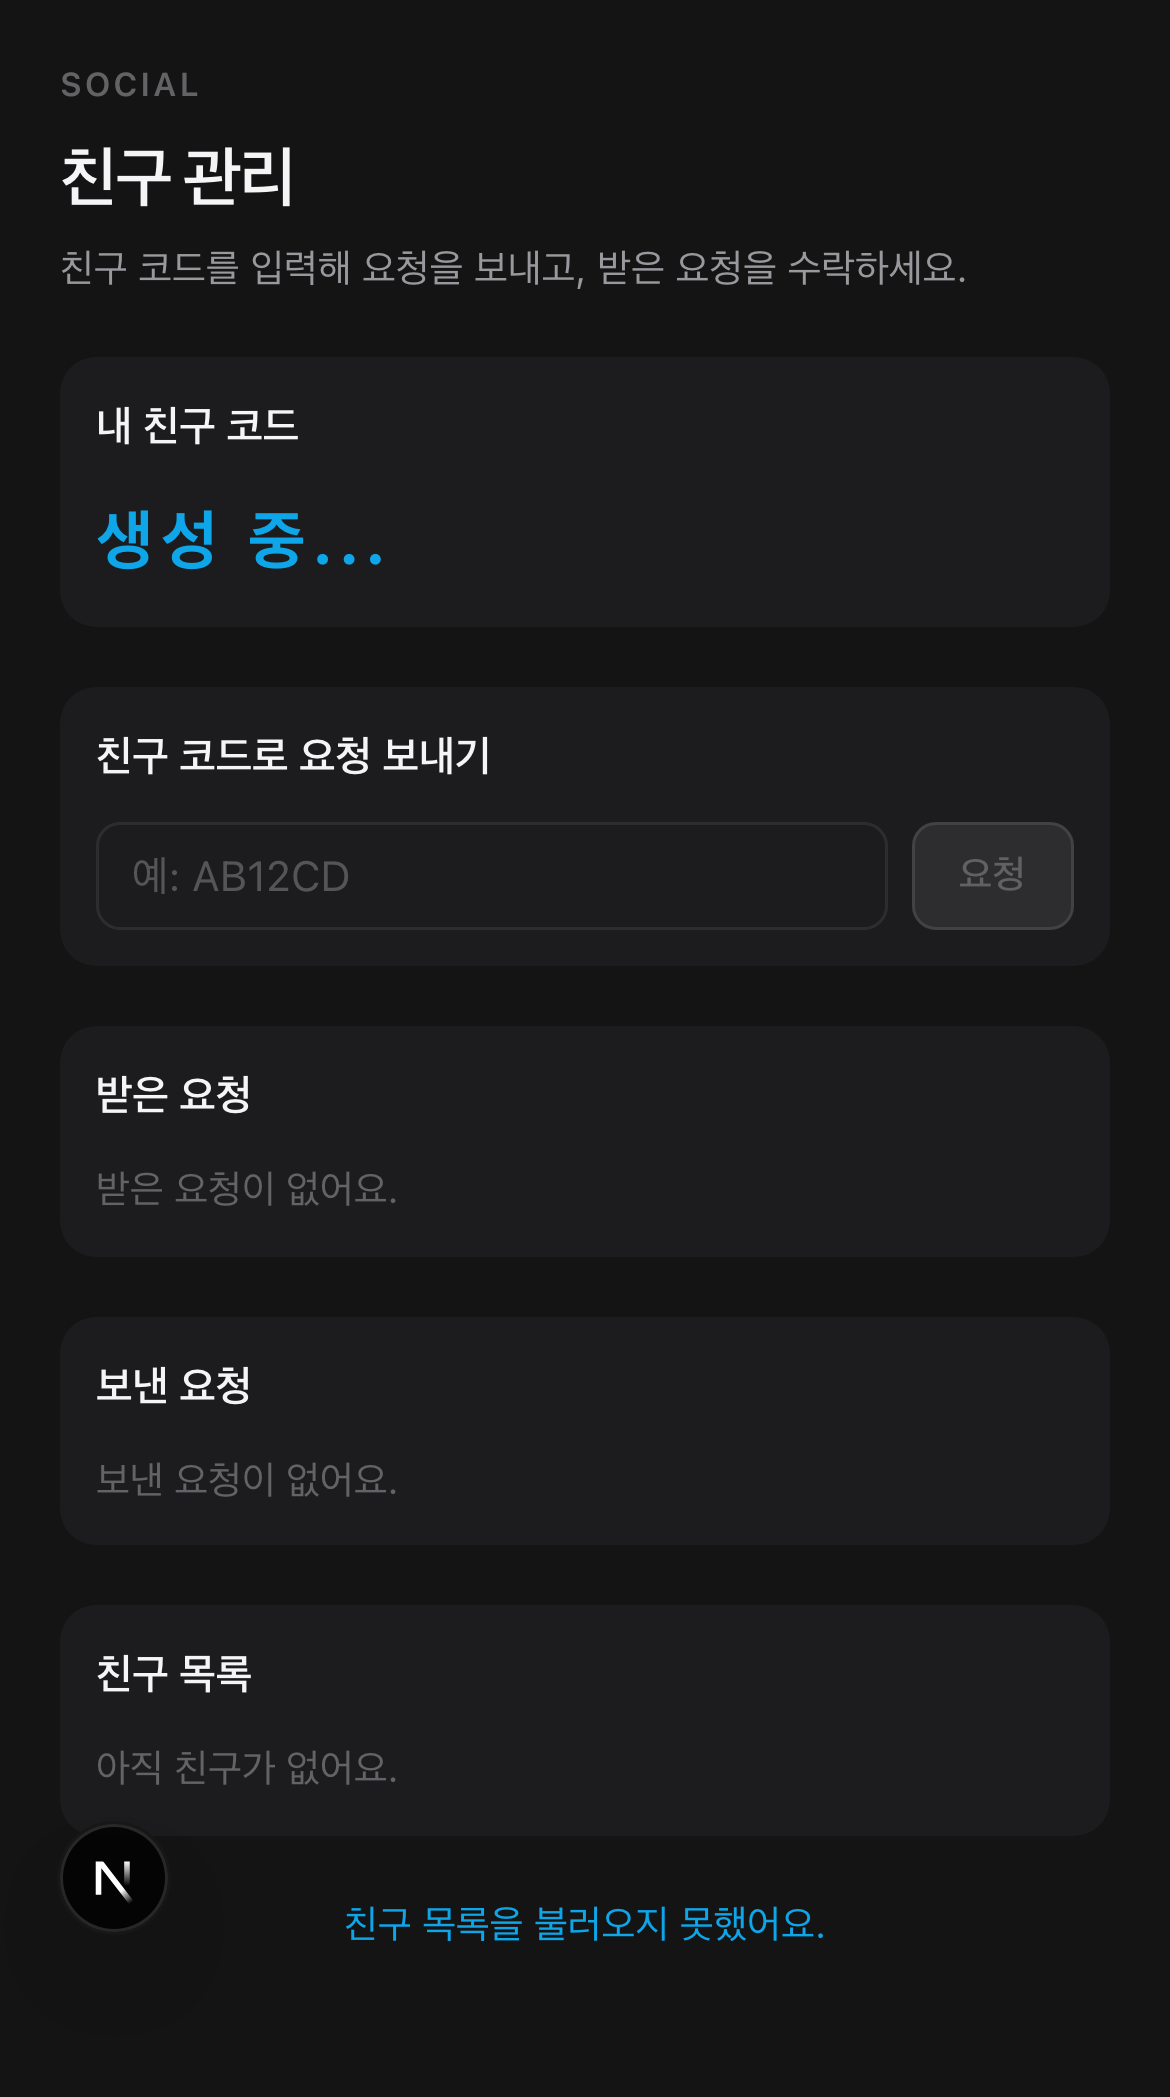
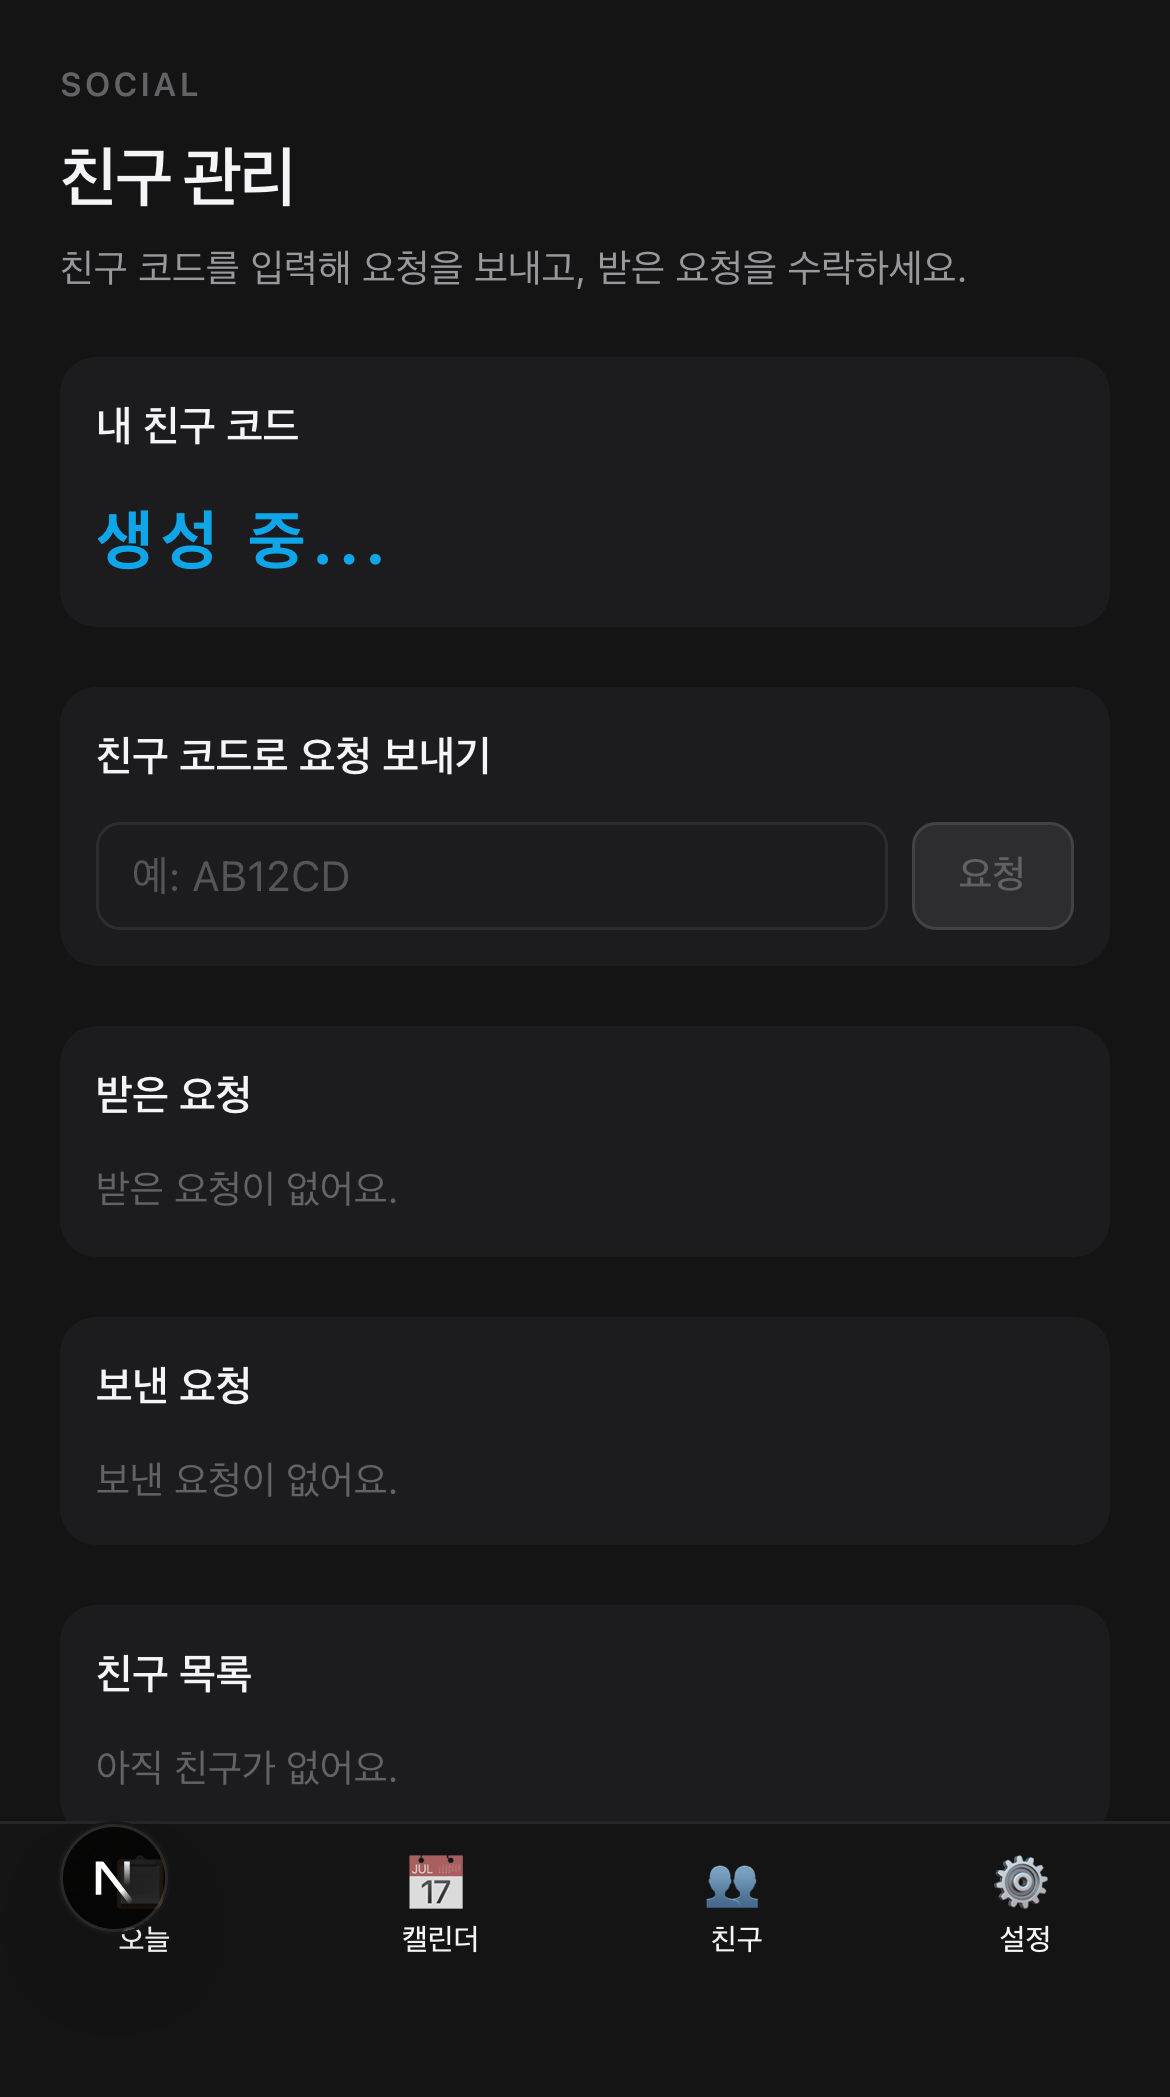
fix: UX 개선 — 하단 네비게이션, 알림 토글, 설정 간소화, 스와이프 안정화
- 하단 네비게이션 바 추가 (오늘/캘린더/친구/설정)
- 알림 켜기/끄기 → 토글 스위치로 변경
- 설정에서 운영정책/시스템안내 섹션 제거
- 스와이프 애니메이션을 인라인 style로 변경 (Tailwind override 방지)
- 테스트 86/86 통과

diff --git a/apps/web/src/app/settings/page.tsx b/apps/web/src/app/settings/page.tsx
@@ -2,7 +2,7 @@
 
 import Link from 'next/link';
 import { useState } from 'react';
-import { Button } from 'antd';
+import { Button, Switch } from 'antd';
 
 import { AuthRequired } from '@/components/auth-required';
 import { PageShell } from '@/components/ui';
@@ -32,6 +32,7 @@ export default function SettingsPage() {
     if (typeof window === 'undefined' || !('Notification' in window)) return 'unsupported';
     return Notification.permission;
   });
+  const [notificationEnabled, setNotificationEnabled] = useState(true);
 
   const requestPermission = async () => {
     if (sendNativeAction('request-notification-permission')) return;
@@ -39,6 +40,11 @@ export default function SettingsPage() {
     if (typeof window === 'undefined' || !('Notification' in window)) return;
     const result = await Notification.requestPermission();
     setPermission(result);
+  };
+
+  const handleToggle = (checked: boolean) => {
+    setNotificationEnabled(checked);
+    sendNativeAction('toggle-notification', checked);
   };
 
   return (
@@ -63,6 +69,18 @@ export default function SettingsPage() {
           {/* Notification */}
           <div className="bg-ds-surface rounded-ds-lg pad-card grid gap-ds-card-gap">
             <p className="m-0 text-[14px] font-semibold text-ds-text">알림</p>
+
+            {/* Toggle */}
+            <div className="flex justify-between items-center">
+              <span className="text-[13px] text-ds-text-muted">알림 받기</span>
+              <Switch
+                checked={notificationEnabled}
+                onChange={handleToggle}
+                size="small"
+              />
+            </div>
+
+            {/* Permission status */}
             <div className="flex justify-between items-center">
               <span className="text-[13px] text-ds-text-muted">권한 상태</span>
               <span
@@ -79,6 +97,8 @@ export default function SettingsPage() {
                 {permissionLabel(permission)}
               </span>
             </div>
+
+            {/* Actions */}
             <div className="flex gap-ds-inline flex-wrap">
               <Button
                 size="small"
@@ -89,51 +109,12 @@ export default function SettingsPage() {
               </Button>
               <Button
                 size="small"
-                onClick={() => { void sendNativeAction('toggle-notification', true); }}
-                className="!bg-ds-surface-strong !text-ds-text-muted !border-0 !text-[12px] !font-medium"
-              >
-                켜기
-              </Button>
-              <Button
-                size="small"
-                onClick={() => { void sendNativeAction('toggle-notification', false); }}
-                className="!bg-ds-surface-strong !text-ds-text-muted !border-0 !text-[12px] !font-medium"
-              >
-                끄기
-              </Button>
-              <Button
-                size="small"
                 onClick={() => { void sendNativeAction('open-settings'); }}
                 className="!bg-ds-surface-strong !text-ds-text-muted !border-0 !text-[12px] !font-medium"
               >
                 시스템 설정
               </Button>
             </div>
-          </div>
-
-          {/* Policy */}
-          <div className="bg-ds-surface rounded-ds-lg pad-card grid gap-ds-card-gap">
-            <p className="m-0 text-[14px] font-semibold text-ds-text">운영 정책</p>
-            <div className="grid gap-ds-inline">
-              {[
-                '기본 3루틴 + 커스텀 루틴 유지',
-                '루틴 인증 정책: 시간대 기반',
-                '친구 연동 권한: 방장만 루틴 편집',
-              ].map((text) => (
-                <div key={text} className="flex items-center gap-2">
-                  <span className="w-[5px] h-[5px] rounded-ds-pill bg-ds-accent shrink-0" />
-                  <span className="text-[13px] text-ds-text-muted">{text}</span>
-                </div>
-              ))}
-            </div>
-          </div>
-
-          {/* Info */}
-          <div className="bg-ds-surface rounded-ds-lg pad-card grid gap-ds-card-gap">
-            <p className="m-0 text-[14px] font-semibold text-ds-text">시스템 안내</p>
-            <p className="m-0 text-[13px] text-ds-text-faint leading-normal">
-              iOS WebView 환경에서는 시스템 설정에서 알림 권한을 최종 확인해 주세요.
-            </p>
           </div>
         </section>
       </PageShell>

diff --git a/apps/web/src/app/settings/page.test.tsx b/apps/web/src/app/settings/page.test.tsx
@@ -34,28 +34,23 @@ describe('SettingsPage', () => {
     expect(screen.getAllByText('SYSTEM').length).toBeGreaterThanOrEqual(1);
   });
 
-  it('renders notification card', () => {
+  it('renders notification card with toggle', () => {
     render(<SettingsPage />);
     expect(screen.getAllByText('알림').length).toBeGreaterThanOrEqual(1);
     expect(screen.getAllByText('권한 상태').length).toBeGreaterThanOrEqual(1);
-  });
-
-  it('renders policy card', () => {
-    render(<SettingsPage />);
-    expect(screen.getAllByText('운영 정책').length).toBeGreaterThanOrEqual(1);
-    expect(screen.getAllByText(/기본 3루틴/).length).toBeGreaterThanOrEqual(1);
-  });
-
-  it('renders system info card', () => {
-    render(<SettingsPage />);
-    expect(screen.getAllByText('시스템 안내').length).toBeGreaterThanOrEqual(1);
+    expect(screen.getAllByText('알림 받기').length).toBeGreaterThanOrEqual(1);
   });
 
   it('has notification action buttons', () => {
     render(<SettingsPage />);
     expect(screen.getAllByText('권한 요청').length).toBeGreaterThanOrEqual(1);
-    expect(screen.getAllByText('켜기').length).toBeGreaterThanOrEqual(1);
-    expect(screen.getAllByText('끄기').length).toBeGreaterThanOrEqual(1);
+    expect(screen.getAllByText('시스템 설정').length).toBeGreaterThanOrEqual(1);
+  });
+
+  it('does not render removed sections', () => {
+    render(<SettingsPage />);
+    expect(screen.queryByText('운영 정책')).toBeNull();
+    expect(screen.queryByText('시스템 안내')).toBeNull();
   });
 
   it('has back link to today', () => {

diff --git a/apps/web/src/components/bottom-nav.tsx b/apps/web/src/components/bottom-nav.tsx
@@ -1,0 +1,42 @@
+'use client';
+
+import Link from 'next/link';
+import { usePathname } from 'next/navigation';
+
+const NAV_ITEMS = [
+  { href: '/today', label: '오늘', icon: '📋' },
+  { href: '/calendar', label: '캘린더', icon: '📅' },
+  { href: '/friends', label: '친구', icon: '👥' },
+  { href: '/settings', label: '설정', icon: '⚙' },
+] as const;
+
+export function BottomNav() {
+  const pathname = usePathname();
+
+  // auth 페이지와 루트에서는 숨김
+  if (pathname === '/auth' || pathname === '/') return null;
+
+  return (
+    <nav className="fixed bottom-0 left-0 right-0 z-20 bg-ds-bg border-t border-ds-border">
+      <div className="max-w-[420px] mx-auto flex justify-around items-center h-[56px]">
+        {NAV_ITEMS.map((item) => {
+          const isActive = pathname === item.href;
+          return (
+            <Link
+              key={item.href}
+              href={item.href}
+              className={`
+                flex flex-col items-center gap-[2px] no-underline
+                transition-colors duration-150
+                ${isActive ? 'text-ds-accent' : 'text-ds-text-faint'}
+              `}
+            >
+              <span className="text-[18px] leading-none">{item.icon}</span>
+              <span className="text-[10px] font-medium">{item.label}</span>
+            </Link>
+          );
+        })}
+      </div>
+    </nav>
+  );
+}

diff --git a/apps/web/src/app/today/today-view.tsx b/apps/web/src/app/today/today-view.tsx
@@ -815,8 +815,11 @@ export function TodayView() {
                       : 'bg-ds-surface'
                     }
                     ${canCertify ? 'cursor-pointer' : ''}
-                    ${swipedRoutineId === routine.id ? '-translate-x-[130px]' : ''}
                   `}
+                  style={{
+                    transform: swipedRoutineId === routine.id ? 'translateX(-130px)' : 'translateX(0)',
+                    transition: 'transform 0.3s var(--ds-ease)',
+                  }}
                   onClick={canCertify ? () => void openCameraForRoutine(routine.id) : undefined}
                 >
                   <div className="w-full flex justify-between items-center gap-2">

diff --git a/apps/web/src/app/layout.tsx b/apps/web/src/app/layout.tsx
@@ -1,6 +1,7 @@
 import type { Metadata, Viewport } from "next";
 import { Geist, Geist_Mono } from "next/font/google";
 import { AntdProvider } from "@/components/antd-provider";
+import { BottomNav } from "@/components/bottom-nav";
 import "./globals.css";
 
 const geistSans = Geist({
@@ -33,7 +34,10 @@ export default function RootLayout({
   return (
     <html lang="en">
       <body className={`${geistSans.variable} ${geistMono.variable}`}>
-        <AntdProvider>{children}</AntdProvider>
+        <AntdProvider>
+          {children}
+          <BottomNav />
+        </AntdProvider>
       </body>
     </html>
   );
